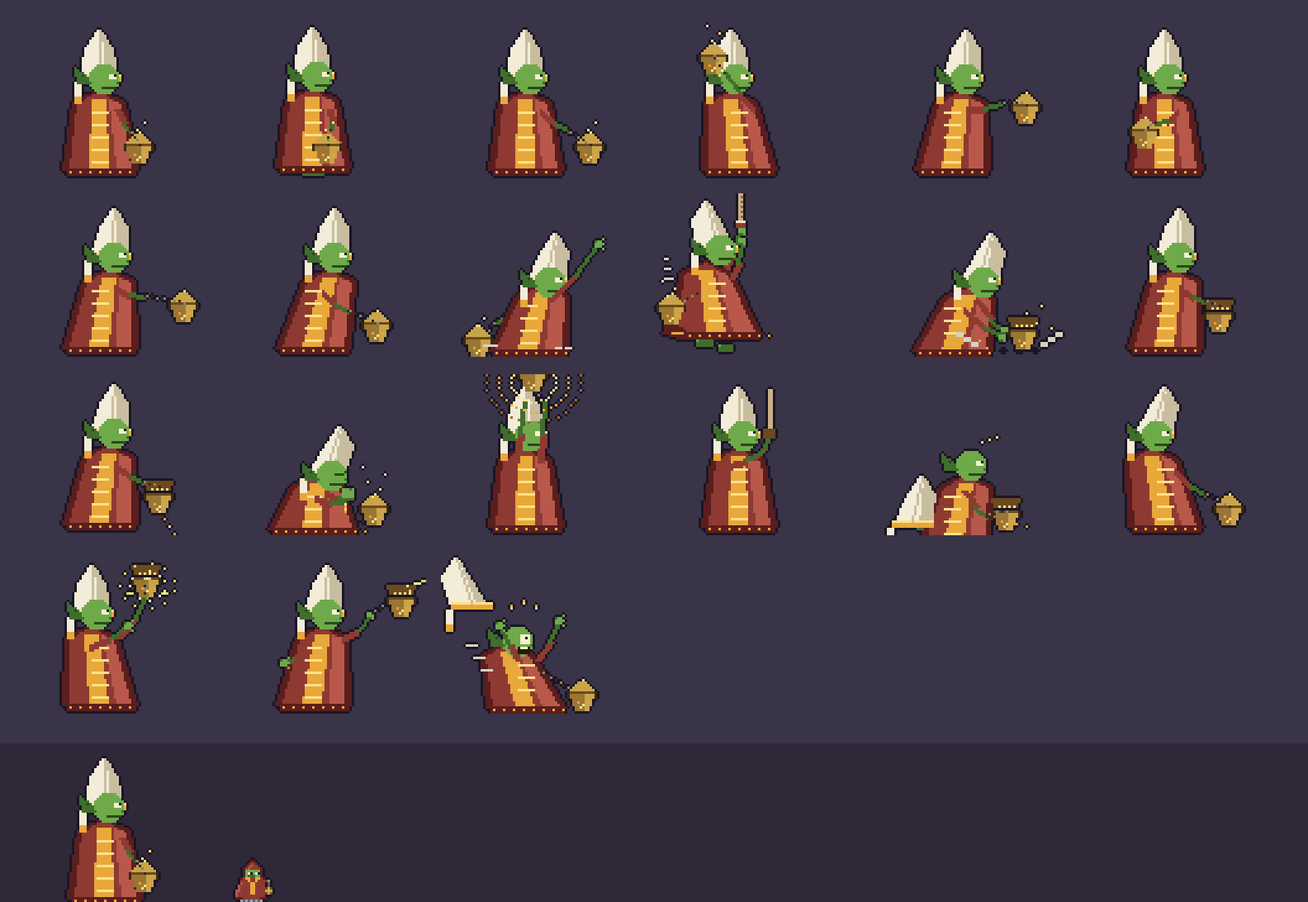
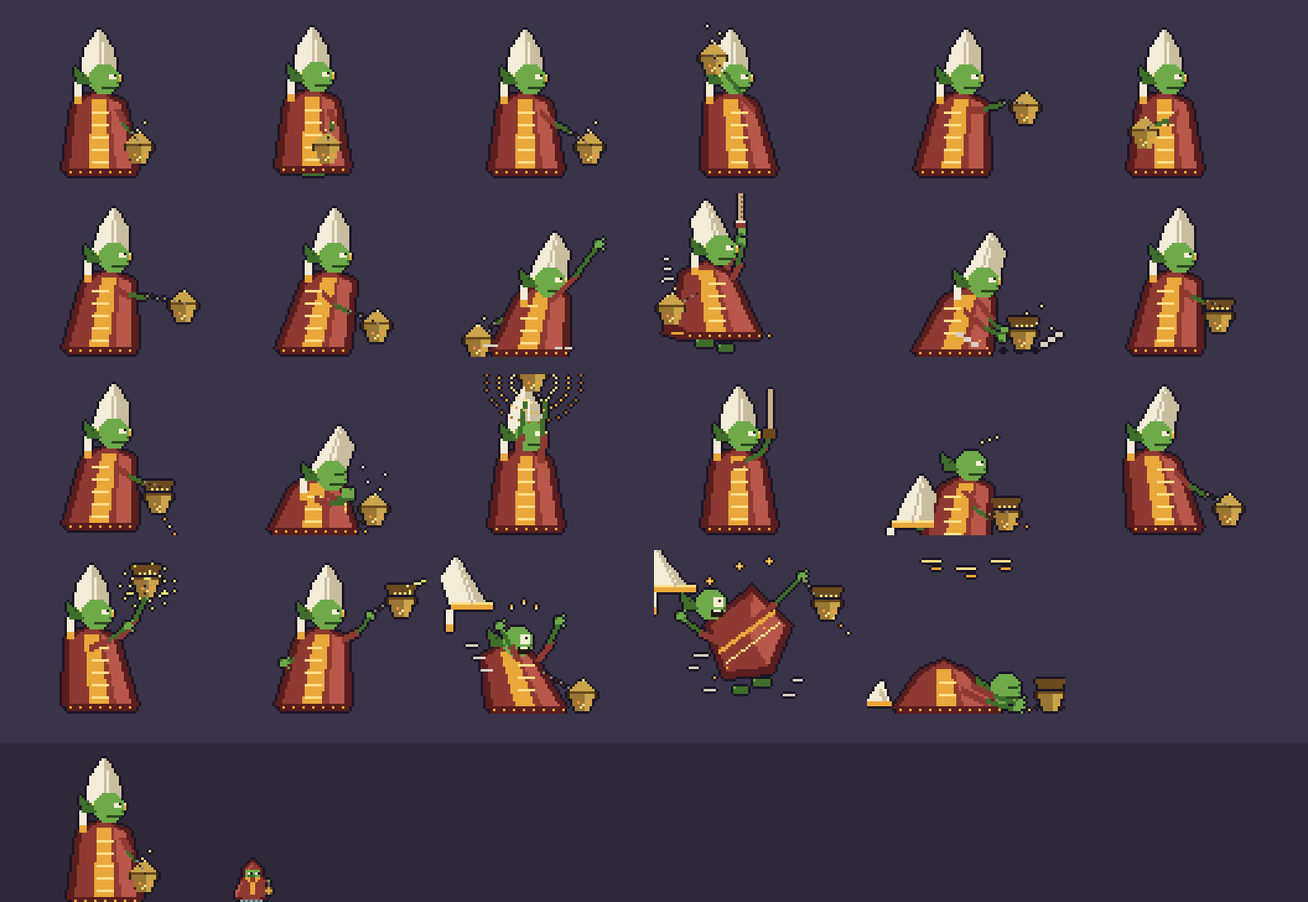
abbot3art: WIP house art, fall + beaten poses

Changed region(s): [[0.4949, 0.5916, 0.6496, 0.7784], [0.6496, 0.7161, 0.8352, 0.8095], [0.7115, 0.6227, 0.7734, 0.6538]]

diff --git a/src/false-abbot.js b/src/false-abbot.js
@@ -79,8 +79,8 @@ export const abbotSanctus = () => null;
 export function abbotSpoil(e, why) { if (!abbotPraying(e) || e.spoilBy) return false; e.spoilBy = why || 'plunge'; return true; }
 /* the frames of bakeFalseAbbot: 0 idle | 1,2 walk | 3 censer tell | 4 censer | 5 cast tell | 6 cast | 7 haul
    8 rope tell | 9 swinging | 10 slam (landed) | 11 coals tell | 12 coals | 13 kneeling prayer | 14 rite flare | 15 knell
-   16 downed | 17 hurt | 18 false light tell | 19 false light thrown | 20 rite spoiled */
-export const ABBOT_FRAMES = 21;
+   16 downed | 17 hurt | 18 false light tell | 19 false light thrown | 20 rite spoiled | 21 fall | 22 beaten */
+export const ABBOT_FRAMES = 23;
 export function abbotFrame(e) {
   switch (e.mode) {
     case 'censerTell': return 3; case 'censer': return 4;
@@ -90,7 +90,7 @@ export function abbotFrame(e) {
     case 'riteTell': return 13; case 'rite': return 14; case 'spoiled': return 20;
     case 'knellTell': case 'knell': return 15;
     case 'gleamTell': return 18; case 'gleam': return 19;
-    case 'downed': case 'beaten': return 16; case 'fall': return 17;
+    case 'downed': return 16; case 'beaten': return 22; case 'fall': return 21;
     case 'sleep': case 'wake': return 0;
   }
   if (e.hurtT > 0) return 17;
@@ -495,56 +495,149 @@ export function drawFalseAbbot(g, e, cx, cy, time, floorY) {
       g.globalAlpha = (0.2 + 0.5 * k) * (1 - i * 0.12); g.fillStyle = '#ff9a3c'; g.fillRect(bx - 4, fy - 2, 8, 2); } g.globalAlpha = 1; }
   if (abbotBlessed(e)) { const k = 0.5 + 0.5 * Math.sin(time * 5), y = Math.round(e.y - cy); g.globalAlpha = 0.20 + 0.18 * k; g.strokeStyle = '#e8a83a'; g.lineWidth = 2;
     g.beginPath(); g.ellipse(x, y - 20, 20, 26, 0, 0, Math.PI * 2); g.stroke(); g.lineWidth = 1; g.globalAlpha = 1; }
+  if (e.mode === 'fall') { g.fillStyle = '#d8d0c0'; g.globalAlpha = 0.6;   /* THE FALL (claude/abbot3art): speed streaks above him, and a dust of the boards he came off */
+    for (let i = 0; i < 6; i++) g.fillRect(Math.round(x - 15 + i * 6), Math.round(fy - 66 + (time * 150 + i * 23) % 30), 1, 7);
+    g.fillStyle = '#a49c8c'; for (let i = 0; i < 4; i++) g.fillRect(Math.round(x - 9 + i * 6 + Math.sin(time * 20 + i) * 2), Math.round(fy - 58 + (time * 60 + i * 11) % 16), 2, 1); g.globalAlpha = 1; }
   if (e.mode === 'downed') { const k = 0.5 + 0.5 * Math.sin(time * 10); g.globalAlpha = 0.35 + 0.35 * k; g.strokeStyle = '#8fd160'; g.lineWidth = 2;
     g.beginPath(); g.ellipse(x, fy - 2, 28 + k * 3, 6, 0, 0, Math.PI * 2); g.stroke(); g.lineWidth = 1; g.globalAlpha = 1; }
 }
-/* THE HOUSE THAT BLESSES HIM (claude/abbot3), drawn under him: the bridges' bells under their towers (glowing while he prays on
-   their bridge or is warded on it), a dropped bridge hanging off its tower and hauled back (told), his CHAIR on its rope with the
-   beam to the basket's pulley, the WHEEL glowing while it blesses him, his CENSER set down smoking (the column that lifts you),
-   and the GREAT BELL glowing once he is beaten down. Greybox canvas: the sonnet art lane owns the look. H in pixels. */
+/* THE HOUSE THAT BLESSES HIM (claude/abbot3 build, claude/abbot3art art), drawn under him. H in pixels. In order:
+   the belfry's own dressing (maroon banners and bronze lamps hung off the decks - cloth and bronze, no timber but what is already the frame);
+   the bridges' BELLS (a stone corbel and iron strap off the deck, a yoke, the bronze bell, the bridge's hauling rope with its iron ring; the bell that blesses him
+   rings its gold ripples), a DROPPED bridge (iron-strapped, hung off its hinge, swaying, then hauled back up told by the dust and the shuddering rope);
+   his CHAIR (red velvet, gilt, mitre finial, four cords to a bronze ring) hung over the beam, and the WINDLASS CATCH on that beam (a ratchet wheel turning
+   with the basket and the pawl that holds the chair up until the basket is ridden down) - the mechanism that makes 'the basket down is the chair down' readable;
+   the PRAYER WHEEL's halo (spinning bronze ring, prayer strips); his CENSER set down on its brazier with the SMOKE COLUMN that lifts you (billows and rising chevrons);
+   the GREAT BELL once he is beaten (a pillar of light, tolling rings, a drift of motes from him to it). Canvas primitives on the 320x180 buffer. */
+const STONE = ['#4a463e', '#6a645a', '#8a8478', '#a49c8c', '#c8c0aa'], BRZ = ['#3a2a12', '#6a4a1e', '#9a7634', '#c9a44a', '#f0dc8a'], IRON = ['#26262e', '#3c3c44', '#5a5a64', '#8a8a96'];
+const CLOTH = ['#3a1216', '#5a1e1e', '#8e3a32', '#b8584a'], SAFF = ['#a8681c', '#e8a83a', '#ffe08a'], ROPE = ['#4a3418', '#8a6a3e', '#c8b088'];
 export function drawAbbotHouse(g, e, H, cx, cy, time, floorY, basketK) {
   if (!H) return;
-  const fy = Math.round(floorY - cy), dy = Math.round(H.deckY - cy), p = 0.5 + 0.5 * Math.sin(time * 9), alive = !!(e && e.alive && e.mode !== 'sleep');
-  const GOLD = '#ffe08a', gl = (x, y, r, a0) => { const gr = g.createRadialGradient(x, y, 0, x, y, r); gr.addColorStop(0, GOLD); gr.addColorStop(1, 'rgba(255,224,138,0)'); g.globalAlpha = a0; g.fillStyle = gr; g.beginPath(); g.arc(x, y, r, 0, Math.PI * 2); g.fill(); g.globalAlpha = 1; };
-  const ph = alive ? (e.phase || 1) : 1, praying = alive && e.mode === 'riteTell', warded = alive && (e.blessT || 0) > 0;
-  /* THE BRIDGES' BELLS: hung from the tower deck's underside, mouth at your head - a rope from each runs up to its bridge's hanger */
+  const W = g.canvas.width, fy = Math.round(floorY - cy), dy = Math.round(H.deckY - cy), p = 0.5 + 0.5 * Math.sin(time * 9), alive = !!(e && e.alive && e.mode !== 'sleep');
+  const R = (c, x, y, w, h) => { g.fillStyle = c; g.fillRect(Math.round(x), Math.round(y), w, h); };
+  const GOLD = '#ffe08a', glow = (x, y, r, a0, col = GOLD) => { const gr = g.createRadialGradient(x, y, 0, x, y, r); gr.addColorStop(0, col); gr.addColorStop(1, 'rgba(255,224,138,0)'); g.globalAlpha = a0; g.fillStyle = gr; g.beginPath(); g.arc(x, y, r, 0, Math.PI * 2); g.fill(); g.globalAlpha = 1; };
+  const rope = (x0, y0, x1, y1, w = 2) => { const n = Math.max(1, Math.ceil(Math.hypot(x1 - x0, y1 - y0))); for (let i = 0; i <= n; i++) { const x = Math.round(x0 + (x1 - x0) * i / n), y = Math.round(y0 + (y1 - y0) * i / n); R(ROPE[(i >> 1) & 1 ? 1 : 2], x, y, w, 1); if (w > 1) R(ROPE[0], x + w, y, 1, 1); } };
+  const ph = alive ? (e.phase || 1) : 1, praying = alive && e.mode === 'riteTell', warded = alive && (e.blessT || 0) > 0, onX = x => x > -140 && x < W + 140;
+  /* ---- THE BELFRY'S DRESSING: banners and lamps off the underside of the decks ---- */
+  (H.spans || []).forEach(([a, b], si) => {
+    const n = Math.max(0, Math.floor((b - a) / 70));
+    for (let k = 0; k < n; k++) { const bx = Math.round(a + (k + 0.5) * (b - a) / n - cx); if (!onX(bx)) continue;
+      const sw = Math.round(Math.sin(time * 1.2 + si * 2 + k * 1.7) * 1), top = dy + 5, len = 21 + ((si + k) % 2) * 4;
+      R(BRZ[1], bx - 6, top - 1, 13, 2); R(BRZ[3], bx - 6, top - 1, 13, 1); R(BRZ[3], bx - 7, top - 2, 2, 4); R(BRZ[3], bx + 6, top - 2, 2, 4);   /* the bronze rod and its finials */
+      for (let r = 0; r < len; r++) { const x0 = bx - 4 + (r > 8 ? sw : 0), y = top + 1 + r, full = r <= len - 6, ws = full ? 9 : Math.max(0, 5 - (r - (len - 6)));   /* the swallow-tail: two strips that narrow away from the middle */
+        if (full) R(CLOTH[1], x0, y, 9, 1); else { R(CLOTH[1], x0, y, ws, 1); R(CLOTH[1], x0 + 9 - ws, y, ws, 1); }
+        R(CLOTH[2], x0, y, Math.min(2, ws), 1); R(CLOTH[0], x0 + 9 - Math.min(2, ws), y, Math.min(2, ws), 1); }
+      for (let r = 2; r < len - 4; r++) { const x0 = bx - 1 + (r > 8 ? sw : 0); R(SAFF[1], x0, top + 1 + r, 3, 1); if (r % 5 === 2) R(SAFF[2], x0 - 1, top + 1 + r, 5, 1); }   /* the orphrey, with its crosspieces */
+      R(SAFF[1], bx - 1 + sw, top + len - 3, 3, 3); R(SAFF[2], bx + sw, top + len - 3, 1, 3); }   /* a gilt tassel at the tail */
+    for (const lx of [a + 10, b - 10]) { const bx = Math.round(lx - cx); if (!onX(bx) || b - a < 80) continue;
+      const fl = Math.sin(time * 17 + lx) > 0 ? 1 : 0;
+      for (let r = 0; r < 7; r++) R(r & 1 ? IRON[2] : IRON[1], bx, dy + 5 + r, 1, 1);   /* the chain */
+      R(BRZ[1], bx - 4, dy + 12, 9, 1); R(BRZ[2], bx - 3, dy + 13, 7, 3); R(BRZ[3], bx - 2, dy + 13, 2, 3); R(BRZ[0], bx - 2, dy + 16, 5, 1);   /* the lamp's bronze cup */
+      R('#ff9a3c', bx - 1, dy + 10 - fl, 3, 2); R(GOLD, bx, dy + 9 - fl, 1, 2);
+      glow(bx, dy + 11, 12 + fl, 0.18); }
+  });
+  /* ---- THE BRIDGES' BELLS ---- */
   (H.bridges || []).forEach((b, i) => b.bells.forEach((bellX, j) => {
     const up = !alive || bridgeUp(e, i), bx = Math.round(bellX - cx), near = bellX < (b.x0 + b.x1) / 2 ? b.x0 : b.x1, nx = Math.round(near - cx);
-    if (bx < -100 || bx > g.canvas.width + 100) return;
-    const mine = alive && up && e.deck === 'high' && e.x >= b.x0 - 6 && e.x <= b.x1 + 6, glow = mine && (praying || warded), by = fy - 50;
-    g.fillStyle = '#2a1c0c'; g.fillRect(bx - 1, dy + 16, 3, by - dy - 16 + 2); g.fillStyle = '#8a6a3e'; g.fillRect(bx, dy + 16, 1, by - dy - 16);   /* its hanger, off the deck */
-    if (!(alive && e.brGone)) { g.strokeStyle = '#c8b088'; g.lineWidth = 1; g.beginPath(); g.moveTo(bx + 0.5, by + 2); g.lineTo(nx + 0.5, dy + 2); g.stroke(); }   /* the rope that holds the bridge up */
-    if (glow) { gl(bx, by + 8, 18 + 4 * p, 0.35 + 0.35 * p); for (let k = 0; k < 3; k++) if (Math.sin(time * 6 + k * 2.2) > 0.2) glint(g, Math.round(bx + Math.cos(time * 3 + k * 2.1) * 12), Math.round(by + 8 + Math.sin(time * 3 + k * 2.1) * 9), '#fffbe0', 1); }
-    const sw = !up && alive && !e.brGone && e.brT && e.brT[i] <= ABBOT.rehangTell ? Math.round(Math.sin(time * 18) * 2) : Math.round(Math.sin(time * 1.3 + i) * 1);
+    if (!onX(bx)) return;
+    const mine = alive && up && e.deck === 'high' && e.x >= b.x0 - 6 && e.x <= b.x1 + 6, ring = mine && (praying || warded), by = fy - 50;
+    const hauling = !up && alive && !e.brGone && e.brT && e.brT[i] <= ABBOT.rehangTell, shud = hauling ? Math.round(Math.sin(time * 38) * 1) : 0;
+    /* the bracket: a stone corbel under the deck, an iron strap down it to the yoke the bell hangs from */
+    R(STONE[1], bx - 5, dy + 5, 11, 3); R(STONE[3], bx - 5, dy + 5, 11, 1); R(STONE[2], bx - 3, dy + 8, 7, 3); R(STONE[0], bx - 3, dy + 10, 7, 1); R(STONE[3], bx - 3, dy + 8, 2, 2);
+    for (let r = dy + 11; r < by - 2; r++) R(IRON[(r >> 1) & 1 ? 1 : 2], bx, r, 2, 1);
+    R(IRON[0], bx + 2, dy + 11, 1, by - dy - 13);
+    R(IRON[1], bx - 4, by - 3, 9, 2); R(IRON[3], bx - 4, by - 3, 9, 1); R(BRZ[3], bx - 5, by - 4, 2, 4); R(BRZ[3], bx + 4, by - 4, 2, 4);   /* the yoke and its bronze gudgeons */
+    if (!(alive && e.brGone)) { rope(bx + 3 + shud, by - 2, nx, dy + 3, 1); R(IRON[2], nx - 2, dy, 5, 2); R(IRON[3], nx - 1, dy + 1, 3, 1); R(IRON[0], nx - 1, dy + 3, 3, 1); }   /* the hauling rope to the iron ring in its bridge end */
+    if (ring) { for (let k = 0; k < 3; k++) { const ph2 = ((time * 1.4 + k / 3) % 1); g.globalAlpha = (1 - ph2) * 0.75; g.strokeStyle = GOLD; g.lineWidth = 1; g.beginPath(); g.ellipse(bx, by + 8, 7 + ph2 * 16, 5 + ph2 * 12, 0, 0, Math.PI * 2); g.stroke(); } g.globalAlpha = 1;
+      glow(bx, by + 8, 18 + 4 * p, 0.35 + 0.3 * p); for (let k = 0; k < 4; k++) if (Math.sin(time * 6 + k * 2.2) > 0.1) glint(g, Math.round(bx + Math.cos(time * 3 + k * 1.6) * 13), Math.round(by + 8 + Math.sin(time * 3 + k * 1.6) * 10), '#fffbe0', 1); }
+    const sw = hauling ? Math.round(Math.sin(time * 18) * 2) : Math.round(Math.sin(time * 1.3 + i) * 1);
     bronzeBell(g, bx, by, sw, true);
-    /* DOWN: the bridge hangs off its far tower, straight down - and hauled back, it swings up to lie flat again */
+    if (ring) { g.globalAlpha = 0.55 * (0.5 + 0.5 * p); R('#fffbe0', bx - 4 + sw, by + 6, 1, 7); g.globalAlpha = 1; }   /* the lip kindles */
+    /* DOWN: the bridge hangs off its hinge on the far tower - iron-strapped, swaying - and hauled back it swings up again; the haul is told by dust off the deck and the shuddering rope */
     if (!up && j === 0) { const far = b.x1 - b.x0 > 120 ? (near === b.x0 ? b.x1 : b.x0) : b.x1, fx = Math.round(far - cx), len = Math.min(88, Math.abs(b.x1 - b.x0)), dir = Math.sign(near - far) || 1;
-      const rise = alive && !e.brGone && e.brT ? Math.max(0, Math.min(1, 1 - e.brT[i] / ABBOT.rehangTell)) : 0, an = (Math.PI / 2) * (1 - rise);
-      for (let s = 0; s < len; s += 4) { const px = Math.round(fx + dir * Math.cos(an) * s), py = Math.round(dy + Math.sin(an) * s);
-        g.fillStyle = '#3a2614'; g.fillRect(px - 3, py, 7, 4); g.fillStyle = s % 8 ? '#7a5232' : '#8e6440'; g.fillRect(px - 2, py, 5, 3); }
-      if (rise > 0) { g.strokeStyle = '#c8b088'; g.beginPath(); g.moveTo(bx + 0.5, by); g.lineTo(Math.round(fx + dir * Math.cos(an) * len) + 0.5, Math.round(dy + Math.sin(an) * len) + 0.5); g.stroke(); } }
+      const rise = alive && !e.brGone && e.brT ? Math.max(0, Math.min(1, 1 - e.brT[i] / ABBOT.rehangTell)) : 0, an = (Math.PI / 2) * (1 - rise) + (rise ? 0 : Math.sin(time * 2.1 + i) * 0.05);
+      for (let s = 0; s < len; s += 4) { const px_ = Math.round(fx + dir * Math.cos(an) * s), py = Math.round(dy + Math.sin(an) * s);
+        R('#2a1c0c', px_ - 5, py, 11, 4); R(s % 8 ? '#7a5232' : '#8e6440', px_ - 4, py, 9, 3); R('#a8805a', px_ - 4, py, 9, 1); R(ROPE[2], px_ - 5, py, 1, 4); R(ROPE[2], px_ + 5, py, 1, 4);
+        if (s % 16 === 0) { R(IRON[1], px_ - 4, py + 1, 9, 1); R(BRZ[3], px_ - 4, py + 1, 1, 1); R(BRZ[3], px_ + 4, py + 1, 1, 1); } }   /* an iron strap and its bronze studs every fourth plank */
+      R(IRON[1], fx - 3, dy - 1, 7, 3); R(BRZ[3], fx - 2, dy - 1, 5, 1); R(IRON[0], fx - 1, dy + 1, 3, 1);   /* the hinge pin on the tower */
+      if (rise > 0) { rope(bx + 3, by - 2, Math.round(fx + dir * Math.cos(an) * len), Math.round(dy + Math.sin(an) * len), 1);
+        g.fillStyle = '#d8d0c0'; g.globalAlpha = 0.5; for (let k = 0; k < 6; k++) g.fillRect(Math.round(fx + dir * (4 + k * 9) + Math.sin(time * 9 + k) * 2), Math.round(dy + 3 + ((time * 40 + k * 13) % 22)), 2, 1); g.globalAlpha = 1; } }
   }));
-  /* HIS CHAIR: an abbot's high seat in red and gilt on a rope from the roof beam; the beam runs to the basket's pulley */
+  /* ---- THE CHAIR, ITS BEAM AND THE WINDLASS CATCH ---- */
   if (H.chairX !== undefined) {
-    const cxp = Math.round(H.chairX - cx), cyp = Math.round(abbotChairY(H, floorY, basketK) - cy), py = Math.round(H.pulleyY - cy), bxp = Math.round(H.basketX + 16 - cx);
-    if (cxp > -80 && cxp < g.canvas.width + 120) {
-      g.fillStyle = '#2a1c0c'; g.fillRect(Math.min(cxp, bxp) - 4, py - 4, Math.abs(bxp - cxp) + 9, 5); g.fillStyle = '#6a4a2c'; g.fillRect(Math.min(cxp, bxp) - 3, py - 3, Math.abs(bxp - cxp) + 7, 2);   /* the beam */
-      for (const qx of [cxp, bxp]) { g.fillStyle = '#4a4a52'; g.beginPath(); g.arc(qx, py, 4, 0, Math.PI * 2); g.fill(); g.fillStyle = '#8a8a96'; g.fillRect(qx - 1, py - 1, 2, 2); }   /* the pulleys */
-      g.strokeStyle = '#c8b088'; g.lineWidth = 1; g.beginPath(); g.moveTo(cxp - 6.5, py + 3); g.lineTo(cxp - 8.5, cyp - 30); g.moveTo(cxp + 6.5, py + 3); g.lineTo(cxp + 8.5, cyp - 30); g.stroke();
-      const inIt = alive && e.deck === 'chair', glow = inIt && (praying || warded);
-      if (glow) gl(cxp, cyp - 16, 26 + 4 * p, 0.3 + 0.3 * p);
-      g.fillStyle = '#2a1018'; g.fillRect(cxp - 11, cyp - 32, 23, 33); g.fillStyle = '#7a1e24'; g.fillRect(cxp - 10, cyp - 31, 21, 24); g.fillStyle = '#9a2e30'; g.fillRect(cxp - 8, cyp - 29, 5, 20);   /* the back, velvet */
-      g.fillStyle = '#c9a44a'; g.fillRect(cxp - 11, cyp - 33, 23, 2); g.fillRect(cxp - 2, cyp - 37, 5, 4); g.fillRect(cxp - 11, cyp - 7, 23, 2);   /* gilt rail and crest */
-      g.fillStyle = '#5a1418'; g.fillRect(cxp - 12, cyp - 6, 25, 6); g.fillStyle = '#c9a44a'; g.fillRect(cxp - 12, cyp - 1, 3, 2); g.fillRect(cxp + 10, cyp - 1, 3, 2);   /* the seat and its feet */
+    const cxp = Math.round(H.chairX - cx), cyp = Math.round(abbotChairY(H, floorY, basketK) - cy), py = Math.round(H.pulleyY - cy), bxp = Math.round(H.basketX + 16 - cx), mx = Math.round((cxp + bxp) / 2);
+    if (cxp > -90 && cxp < W + 130) {
+      const k = Math.max(0, Math.min(1, basketK || 0)), inIt = alive && e.deck === 'chair', ring = inIt && (praying || warded), spilled = k >= ABBOT.spillAt, lo = Math.min(cxp, bxp) - 11, wd = Math.abs(bxp - cxp) + 23;
+      /* the beam: an iron-bound gantry hung from the belfry roof on two chains, end plates riveted, a bronze cap on each */
+      for (const qx of [lo + 3, lo + wd - 4]) { for (let r = py - 70; r < py - 4; r += 3) { R(IRON[2], qx, r, 2, 2); R(IRON[0], qx + 1, r + 1, 1, 2); } }
+      R(IRON[0], lo, py - 5, wd, 7); R(IRON[1], lo, py - 4, wd, 4); R(IRON[3], lo, py - 4, wd, 1);
+      R(BRZ[2], lo - 1, py - 6, 4, 9); R(BRZ[3], lo - 1, py - 6, 1, 9); R(BRZ[2], lo + wd - 3, py - 6, 4, 9); R(BRZ[3], lo + wd - 3, py - 6, 1, 9);
+      for (let r = 0; r < wd - 8; r += 6) R(IRON[3], lo + 5 + r, py - 3, 1, 1);   /* rivets */
+      /* THE WINDLASS CATCH: a ratchet wheel on the beam turning with the basket (two turns over the ride), and the PAWL that holds the chair up till the basket moves */
+      const wy = py - 13, rot = k * Math.PI * 4, held = k < 0.04;
+      R(IRON[1], mx - 1, py - 7, 3, 3);   /* its pillow block */
+      for (let t = 0; t < 8; t++) { const an = rot + t * Math.PI / 4; R(BRZ[3], mx + Math.cos(an) * 7 - 1, wy + Math.sin(an) * 7 - 1, 2, 2); }   /* the teeth */
+      g.fillStyle = BRZ[1]; g.beginPath(); g.arc(mx, wy, 6, 0, Math.PI * 2); g.fill(); g.fillStyle = BRZ[2]; g.beginPath(); g.arc(mx, wy, 4.5, 0, Math.PI * 2); g.fill();
+      g.strokeStyle = BRZ[0]; g.lineWidth = 1; g.beginPath(); for (let t = 0; t < 4; t++) { const an = rot + t * Math.PI / 2; g.moveTo(mx, wy); g.lineTo(mx + Math.cos(an) * 5, wy + Math.sin(an) * 5); } g.stroke();
+      R(BRZ[4], mx - 1, wy - 1, 3, 3); R(BRZ[0], mx, wy, 1, 1);
+      const tipY = held ? wy - 5 : wy - 10 - Math.round(Math.abs(Math.sin(rot * 4)));   /* the pawl rides up on the teeth while the wheel runs */
+      R(IRON[1], mx - 15, py - 16, 2, 11); R(IRON[3], mx - 15, py - 16, 1, 11);   /* the pawl's post */
+      g.strokeStyle = IRON[3]; g.beginPath(); g.moveTo(mx - 14, py - 15); g.lineTo(mx - 8, tipY); g.stroke(); g.strokeStyle = IRON[0]; g.beginPath(); g.moveTo(mx - 14, py - 14); g.lineTo(mx - 8, tipY + 1); g.stroke();
+      R(BRZ[4], mx - 9, tipY - 1, 3, 2);   /* the catch's tip */
+      rope(mx - 15, py - 16, mx - 15, py - 10, 1); R(STONE[2], mx - 18, py - 10, 6, 5); R(STONE[3], mx - 18, py - 10, 6, 1); R(STONE[0], mx - 18, py - 6, 6, 1);   /* the stone that weights the pawl */
+      if (!held && Math.sin(time * 30) > 0.3) glint(g, mx - 8, tipY - 3, '#fffbe0', 1);   /* the click of it */
+      /* the pulleys: bronze sheaves in iron stirrups, the chair's rope over the left one */
+      for (const qx of [cxp, bxp]) { R(IRON[1], qx - 4, py, 9, 3); R(IRON[3], qx - 4, py, 9, 1); g.fillStyle = BRZ[0]; g.beginPath(); g.arc(qx, py + 6, 5, 0, Math.PI * 2); g.fill(); g.fillStyle = BRZ[2]; g.beginPath(); g.arc(qx, py + 6, 3.5, 0, Math.PI * 2); g.fill(); R(BRZ[4], qx - 1, py + 5, 2, 2); }
+      /* the chair's cord: one rope up to the sheave, a bronze ring, four cords down to the arms - swaying once he is thrown out of it */
+      const tilt = spilled ? Math.round(Math.sin(time * 7) * 3) : 0, ringY = cyp - 47;
+      rope(cxp - 1, py + 11, cxp - 1, ringY - 2, 2);
+      g.strokeStyle = BRZ[3]; g.lineWidth = 1; g.beginPath(); g.arc(cxp, ringY, 3, 0, Math.PI * 2); g.stroke(); R(BRZ[1], cxp - 1, ringY + 2, 3, 2);
+      g.strokeStyle = ROPE[2]; g.beginPath(); g.moveTo(cxp - 2, ringY + 2); g.lineTo(cxp - 11 + tilt, cyp - 30); g.moveTo(cxp + 2, ringY + 2); g.lineTo(cxp + 11 + tilt, cyp - 30); g.moveTo(cxp - 1, ringY + 2); g.lineTo(cxp - 6 + tilt, cyp - 34); g.moveTo(cxp + 1, ringY + 2); g.lineTo(cxp + 6 + tilt, cyp - 34); g.stroke();
+      if (ring) { glow(cxp, cyp - 18, 28 + 4 * p, 0.3 + 0.3 * p); for (let q = 0; q < 3; q++) { const ph2 = ((time * 1.2 + q / 3) % 1); g.globalAlpha = (1 - ph2) * 0.5; g.strokeStyle = GOLD; g.beginPath(); g.ellipse(cxp, cyp - 18, 14 + ph2 * 14, 20 + ph2 * 10, 0, 0, Math.PI * 2); g.stroke(); } g.globalAlpha = 1; }
+      /* THE CHAIR: a tall gabled back of bronze-gilt framing with the red velvet let into it, a mitre finial, gilt arms with bronze knobs, a cushion with its tassel, a footboard */
+      const X = cxp + Math.round(tilt * 0.5);
+      R('#1b0a10', X - 11, cyp - 33, 23, 34);
+      R(BRZ[1], X - 11, cyp - 31, 23, 3); R(BRZ[3], X - 11, cyp - 31, 23, 1); R(BRZ[1], X - 8, cyp - 34, 17, 3); R(BRZ[3], X - 8, cyp - 34, 17, 1); R(BRZ[1], X - 4, cyp - 37, 9, 3); R(BRZ[3], X - 4, cyp - 37, 9, 1);   /* the gable, stepped */
+      R(BRZ[4], X - 1, cyp - 41, 3, 5); R(BRZ[3], X - 3, cyp - 39, 7, 1);   /* the finial: a little cross-and-mitre */
+      R(CLOTH[1], X - 9, cyp - 28, 19, 19); R(CLOTH[2], X - 8, cyp - 27, 6, 17); R(CLOTH[0], X + 5, cyp - 27, 4, 17);   /* the velvet, lit on the left */
+      for (let r = 0; r < 4; r++) { R(BRZ[2], X - 6 + r * 4, cyp - 25, 1, 1); R(BRZ[2], X - 6 + r * 4, cyp - 17, 1, 1); R(BRZ[2], X - 6 + r * 4, cyp - 12, 1, 1); }   /* the buttons of the quilting */
+      R(SAFF[1], X - 1, cyp - 28, 3, 19); R(SAFF[2], X, cyp - 28, 1, 19);   /* the orphrey up the back */
+      R(BRZ[2], X - 12, cyp - 12, 3, 12); R(BRZ[3], X - 12, cyp - 12, 1, 12); R(BRZ[2], X + 10, cyp - 12, 3, 12); R(BRZ[3], X + 10, cyp - 12, 1, 12);   /* the arms */
+      R(BRZ[4], X - 13, cyp - 14, 4, 3); R(BRZ[4], X + 10, cyp - 14, 4, 3);   /* with knobs */
+      R(CLOTH[0], X - 11, cyp - 7, 23, 7); R(CLOTH[2], X - 11, cyp - 8, 23, 2); R(CLOTH[1], X - 10, cyp - 6, 21, 5); R(SAFF[1], X - 11, cyp - 8, 23, 1);   /* the seat's cushion */
+      R(SAFF[1], X + 10, cyp - 3, 2, 6); R(SAFF[2], X + 10, cyp - 3, 1, 6); R(SAFF[1], X + 9, cyp + 3, 4, 2);   /* the tassel */
+      R(BRZ[1], X - 9, cyp + 1, 19, 2); R(BRZ[3], X - 9, cyp + 1, 19, 1); R(BRZ[0], X - 9, cyp + 3, 19, 1);   /* the footboard */
     } }
-  /* THE WHEEL (phase three): it spins and glows gold while it blesses him */
-  if (alive && ph === 3 && H.wheels && (praying && e.riteAt === 3 || warded)) { const wx = Math.round(H.wheels[e.riteWheel || 0].x - cx); gl(wx, fy - 14, 22 + 4 * p, 0.3 + 0.35 * p);
-    g.strokeStyle = GOLD; g.globalAlpha = 0.5 + 0.4 * p; g.lineWidth = 1; g.beginPath(); g.arc(wx, fy - 14, 13, time * 6, time * 6 + 4.2); g.stroke(); g.globalAlpha = 1; }
-  /* HIS CENSER, SET DOWN AND SMOKING (phase three's rite): the column that lifts you over him */
-  if (alive && e.smoke) { const sx = Math.round(e.smoke.x - cx), top = fy - ABBOT.smokeH;
-    for (let k = 0; k < 5; k++) { const wob = Math.sin(time * 5 + k * 1.9) * 3; g.globalAlpha = 0.14 + 0.06 * Math.sin(time * 7 + k); g.fillStyle = k % 2 ? '#f6eee0' : '#e8d8a8'; g.fillRect(Math.round(sx - 10 + k * 4 + wob), top, 4, ABBOT.smokeH - 8); }
-    g.globalAlpha = 1; g.fillStyle = '#2a1c0c'; g.fillRect(sx - 6, fy - 9, 13, 9); g.fillStyle = '#9a7634'; g.fillRect(sx - 5, fy - 8, 11, 7); g.fillStyle = '#c9a44a'; g.fillRect(sx - 3, fy - 8, 7, 2); g.fillStyle = '#ff9a3c'; g.fillRect(sx - 2, fy - 10, 5, 2); }
-  /* THE GREAT BELL, once he is beaten down: it glows - ring it */
-  if (alive && e.mode === 'beaten' && H.bellX !== undefined) { const gx = Math.round(H.bellX - cx); gl(gx, fy - 30, 30 + 6 * p, 0.35 + 0.4 * p);
-    for (let k = 0; k < 4; k++) glint(g, Math.round(gx + Math.cos(time * 3 + k * 1.6) * 20), Math.round(fy - 30 + Math.sin(time * 3 + k * 1.6) * 16), '#fffbe0', 1); }
+  /* ---- THE PRAYER WHEEL'S HALO (phase three): a spinning bronze ring with its prayer strips, over the wheel that blesses him ---- */
+  if (alive && ph === 3 && H.wheels && (praying && e.riteAt === 3 || warded)) { const wx = Math.round(H.wheels[e.riteWheel || 0].x - cx), wy = fy - 14;
+    glow(wx, wy, 22 + 4 * p, 0.3 + 0.3 * p);
+    for (let t = 0; t < 12; t++) { const an = time * 5 + t * Math.PI / 6; g.globalAlpha = 0.55 + 0.35 * p; R(t % 3 ? BRZ[3] : BRZ[4], wx + Math.cos(an) * 14 - 1, wy + Math.sin(an) * 14 - 1, t % 3 ? 2 : 3, t % 3 ? 2 : 3); }   /* the ring: studs counting round */
+    for (let t = 0; t < 5; t++) { const an = -time * 3.4 + t * 1.26, rr = 19 + (t & 1) * 3; g.globalAlpha = 0.75; R(t & 1 ? CLOTH[3] : '#efe6d2', wx + Math.cos(an) * rr, wy + Math.sin(an) * rr * 0.8, 2, 4); }   /* prayer strips in the draught of it */
+    g.globalAlpha = 1; g.lineWidth = 1; for (let t = 0; t < 3; t++) { const ph2 = (time * 0.9 + t / 3) % 1; g.globalAlpha = (1 - ph2) * 0.55; g.strokeStyle = GOLD; g.beginPath(); g.arc(wx, wy, 11 + ph2 * 12, 0, Math.PI * 2); g.stroke(); } g.globalAlpha = 1; }
+  /* ---- HIS CENSER, SET DOWN ON ITS BRAZIER, AND THE SMOKE THAT LIFTS YOU ---- */
+  if (alive && e.smoke) { const sx = Math.round(e.smoke.x - cx), N = 15;
+    /* the column: puffs of incense billowing up and widening, warm at the foot, pale and thin at the head */
+    for (let k = 0; k < N; k++) { const u = ((time * 0.45 + k / N) % 1), y = fy - 10 - u * (ABBOT.smokeH - 6), wob = Math.sin(time * 3 + k * 1.9 + u * 5) * (3 + u * 4), r = 5 + u * 6;
+      g.globalAlpha = 0.5 * (1 - u * 0.75) * Math.min(1, u * 8 + 0.3); g.fillStyle = u < 0.2 ? '#e8c880' : u < 0.55 ? '#f0e4c8' : '#f6eee0';
+      g.beginPath(); g.ellipse(sx + wob, y, r, r * 0.8, 0, 0, Math.PI * 2); g.fill(); g.globalAlpha *= 0.7; g.fillStyle = '#fffaf0'; g.beginPath(); g.ellipse(sx + wob - r * 0.3, y - r * 0.2, r * 0.45, r * 0.35, 0, 0, Math.PI * 2); g.fill(); }
+    g.globalAlpha = 1;
+    /* the lift: gold chevrons riding up it, so it reads as a thing to stand in */
+    for (let k = 0; k < 5; k++) { const u = ((time * 0.55 + k / 5) % 1), y = Math.round(fy - 14 - u * (ABBOT.smokeH - 26)), wb = Math.round(Math.sin(time * 3 + k * 1.9 + u * 5) * (3 + u * 4)); g.globalAlpha = 0.85 * Math.sin(Math.PI * u);
+      R(GOLD, sx + wb, y - 2, 1, 1); R(GOLD, sx + wb - 1, y - 1, 1, 1); R(GOLD, sx + wb + 1, y - 1, 1, 1); R(GOLD, sx + wb - 2, y, 1, 1); R(GOLD, sx + wb + 2, y, 1, 1); }
+    g.globalAlpha = 1;
+    /* the brazier: three bronze feet, a bowl pierced for the coals, the lid propped open - the censer he set down */
+    R(BRZ[0], sx - 7, fy - 2, 3, 2); R(BRZ[0], sx + 5, fy - 2, 3, 2); R(BRZ[0], sx - 1, fy - 2, 3, 2);
+    R(BRZ[1], sx - 7, fy - 11, 15, 2); R(BRZ[3], sx - 7, fy - 11, 15, 1); R(BRZ[2], sx - 6, fy - 9, 13, 7); R(BRZ[3], sx + 2, fy - 9, 5, 7); R(BRZ[0], sx - 6, fy - 3, 13, 1);
+    for (const dx of [-4, -1, 2, 5]) R(dx & 1 ? '#ff9a3c' : GOLD, sx + dx, fy - 7 + (dx & 1), 1, 2);   /* the coals through the piercing */
+    R(BRZ[1], sx - 6, fy - 14, 13, 3); R(BRZ[3], sx - 6, fy - 14, 13, 1); R(BRZ[4], sx, fy - 16, 1, 2);
+    glow(sx, fy - 10, 14 + 2 * p, 0.28); }
+  /* ---- THE GREAT BELL, once he is beaten down: a pillar of light from the roof, rings of its note, and the way there from him ---- */
+  if (alive && e.mode === 'beaten' && H.bellX !== undefined) { const gx = Math.round(H.bellX - cx), by = fy - 30;
+    g.globalAlpha = 0.14 + 0.1 * p; R(GOLD, gx - 9, 0, 18, by); g.globalAlpha = 0.22 + 0.12 * p; R('#fffbe0', gx - 4, 0, 8, by); g.globalAlpha = 1;
+    glow(gx, by, 30 + 6 * p, 0.38 + 0.4 * p);
+    for (let q = 0; q < 3; q++) { const ph2 = (time * 0.85 + q / 3) % 1; g.globalAlpha = (1 - ph2) * 0.8; g.strokeStyle = q ? GOLD : '#fffbe0'; g.lineWidth = 2; g.beginPath(); g.ellipse(gx, by, 10 + ph2 * 36, 12 + ph2 * 30, 0, 0, Math.PI * 2); g.stroke(); } g.lineWidth = 1; g.globalAlpha = 1;
+    for (let k = 0; k < 6; k++) glint(g, Math.round(gx + Math.cos(time * 2.6 + k * 1.05) * 22), Math.round(by + Math.sin(time * 2.6 + k * 1.05) * 18), '#fffbe0', 1 + (k & 1));
+    for (let k = 0; k < 3; k++) { const bob = Math.round(Math.abs(Math.sin(time * 5 + k)) * 3); R(GOLD, gx - 4 + k * 3, by - 24 - bob + k % 2, 1, 1); }   /* three bright specks bobbing over the crown: strike here */
+    const ex = Math.round(e.x - cx), dxs = gx - ex, steps = Math.min(14, Math.floor(Math.abs(dxs) / 14));
+    for (let k = 0; k < steps; k++) { const u = ((time * 0.6 + k / steps) % 1); g.globalAlpha = Math.sin(Math.PI * u) * 0.7; R(GOLD, ex + dxs * u, fy - 14 - Math.sin(u * Math.PI) * 18, 2, 2); } g.globalAlpha = 1; }
 }

diff --git a/src/redraw/false_abbot.js b/src/redraw/false_abbot.js
@@ -18,7 +18,7 @@
 //                   | 18 FALSE LIGHT TELL (the pot held high, flaring a sickly gold) | 19 FALSE LIGHT (thrown, arm out)
 //                   | 20 RITE SPOILED (knocked off his knees, hands flung up). 13 is now THE PRAYER: kneeling, hands joined,
 //                   the pot set down smoking beside him (claude/abbot2: the procession's frames became the rope's, B16)
-//                   | 17 hurt
+//                   | 17 hurt | 21 FALL (tumbling, off the bridge or out of the chair) | 22 BEATEN (flat on his face before the great bell)
 import { canvas, px, rect, fillPoly, line, ellipse, circle, outline, flipX, whiten } from '../px.js';
 import { OUT } from '../art.js';
 
@@ -94,8 +94,35 @@ export function bakeFalseAbbot() {
   };
   const smoke = (g, x, y, n = 3) => { for (let k = 0; k < n; k++) px(g, x + (k % 2 ? 1 : -1) * (1 + k), y - 3 - k * 3, k > 1 ? A.smoke : A.coalL); };
 
-  const F = Array.from({ length: 21 }, (_, f) => {
+  const F = Array.from({ length: 23 }, (_, f) => {
     const [c, g] = canvas(W, H); const floor = H - 2, hip = floor - 26, sh = hip - 6, hd = sh - 12;
+    if (f === 21) {   // THE FALL (claude/abbot3art, B16): the bridge went out from under him / the chair spilled him. TUMBLING in the air - the cope a flung tent, the boots kicking up, the arms thrown wide, the mitre flying off, the pot out on its chain
+      fillPoly(g, [[cx - 14, 30], [cx + 6, 14], [cx + 22, 30], [cx + 14, 50], [cx - 6, 52]], A.M);
+      fillPoly(g, [[cx - 11, 30], [cx + 6, 17], [cx + 19, 30], [cx + 12, 47], [cx - 5, 49]], A.m);
+      fillPoly(g, [[cx + 6, 17], [cx + 19, 30], [cx + 12, 47], [cx + 4, 33]], A.h);
+      thick(g, cx - 8, 40, cx + 14, 24, A.y, 2); thick(g, cx - 5, 45, cx + 16, 29, A.Yl, 1);          // the orphrey, slewed across the mass
+      for (let k = 0; k < 5; k++) px(g, cx - 10 + k * 5, 51 - k * 5 + (k & 1), A.y);                  // the hem, torn up
+      rect(g, cx + 6, 52, 7, 3, A.G); rect(g, cx - 2, 55, 6, 3, A.G); px(g, cx + 6, 52, A.g); px(g, cx - 2, 55, A.g);   // the boots, kicked up behind
+      head(g, cx - 11, 22, { wide: 1 });                                                               // staring, mouth open, head back
+      arm(g, cx + 4, 28, cx + 25, 10); hand(g, cx + 25, 10, 1); arm(g, cx - 8, 36, cx - 24, 26); hand(g, cx - 24, 26, 1);
+      mitre(g, cx - 26, 8, -9);                                                                        // flung off
+      chainTo(g, cx + 25, 11, cx + 33, 20); censer(g, cx + 36, 21, 1, 1);
+      for (let k = 0; k < 3; k++) { px(g, cx + 38 + k * 3, 27 + k * 3, k & 1 ? A.coal : A.coalL); }    // coals spat out of it
+      for (const [dx, w, dy] of [[-18, 6, 42], [-20, 4, 47], [-14, 5, 56], [18, 5, 58], [22, 4, 52]]) rect(g, cx + dx, dy, w, 1, A.smoke);   // the speed lines, rising: he is falling
+      for (const [dx, dy] of [[0, 6], [12, 4], [-12, 12]]) { px(g, cx + dx, dy, A.Yl); px(g, cx + dx - 1, dy, A.y); px(g, cx + dx + 1, dy, A.y); px(g, cx + dx, dy - 1, A.y); px(g, cx + dx, dy + 1, A.y); }   // stars
+      outline(c, OUT); return c;
+    }
+    if (f === 22) {   // BEATEN DOWN (the finale, B16): not the opening's one knee and stars - he is FLAT on his face before the great bell, forehead on the boards, both hands out in front, the mitre rolled away, the pot upended and cold, the cope spread like a fallen tent. Only a thin gold hum over him: the bell is the last blow
+      const len = 17, s2 = floor - len;
+      rect(g, cx - 22, floor - 3, 7, 3, A.G); rect(g, cx - 14, floor - 2, 6, 2, A.G); px(g, cx - 22, floor - 3, A.g);   // the boots, trailing
+      cope(g, cx - 2, s2, -1, len, 7);
+      head(g, cx + 22, floor - 8, { shut: 1 });
+      arm(g, cx + 8, s2 + 6, cx + 26, floor - 3); arm(g, cx + 4, s2 + 8, cx + 24, floor - 1); hand(g, cx + 27, floor - 3, 1); hand(g, cx + 26, floor - 1, 1);
+      fillPoly(g, [[cx - 36, floor - 1], [cx - 28, floor - 12], [cx - 24, floor - 1]], A.mit); fillPoly(g, [[cx - 29, floor - 9], [cx - 24, floor - 1], [cx - 28, floor - 1]], A.mitD); rect(g, cx - 36, floor - 3, 12, 2, A.y);   // the mitre, lying on its side
+      censer(g, cx + 40, floor - 6, 0, 1); for (const [dx, dy] of [[34, -1], [44, -1], [47, -2]]) px(g, cx + dx, floor + dy, A.br[0]);   // cold, upended, the ash spilled
+      for (let k = 0; k < 3; k++) { rect(g, cx - 12 + k * 14, 4 + (k & 1) * 3, 8, 1, A.Yl); rect(g, cx - 8 + k * 14, 7 + (k & 1) * 3, 4, 1, A.y); }   // the hum of the bell, in gold lines over him
+      outline(c, OUT); return settle(c);
+    }
     if (f === 16) {   // DOWNED - THE OPENING: the bell's note went through the rite. On one knee, mitre off, the pot spilled
       rect(g, cx - 14, floor - 4, 10, 4, A.G);
       cope(g, cx, sh + 12, 6); head(g, cx + 8, hd + 18);
